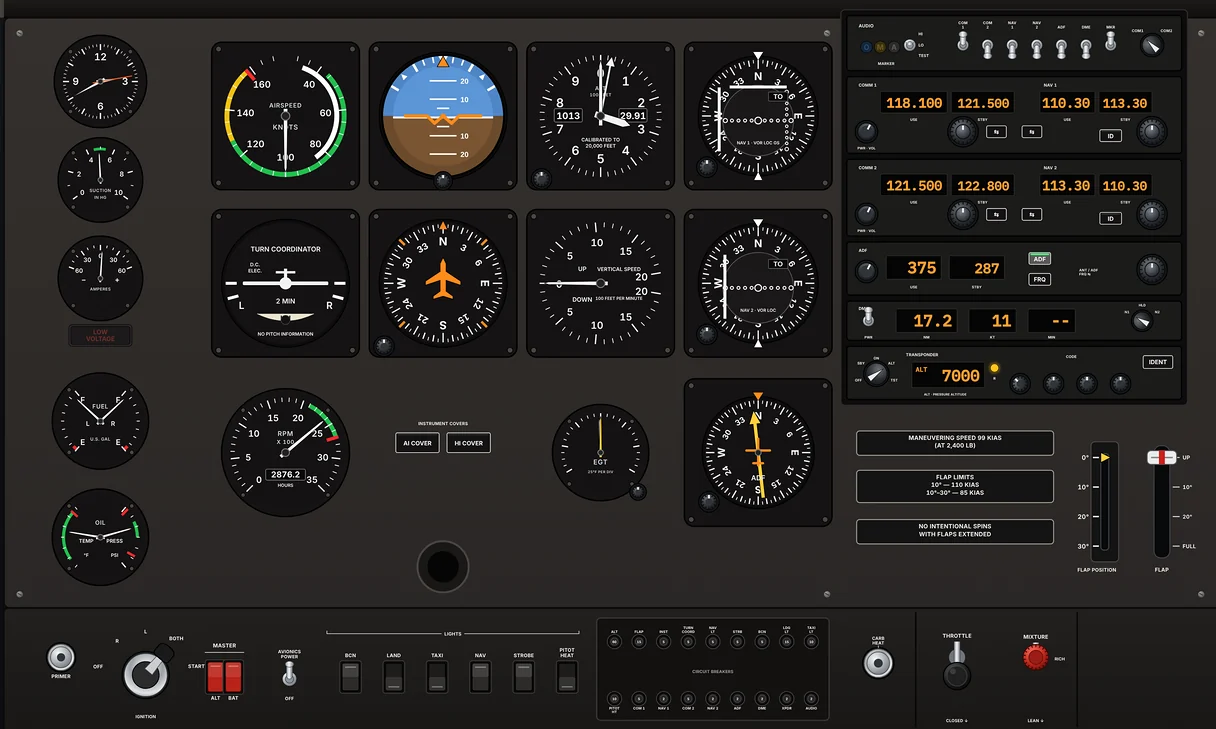
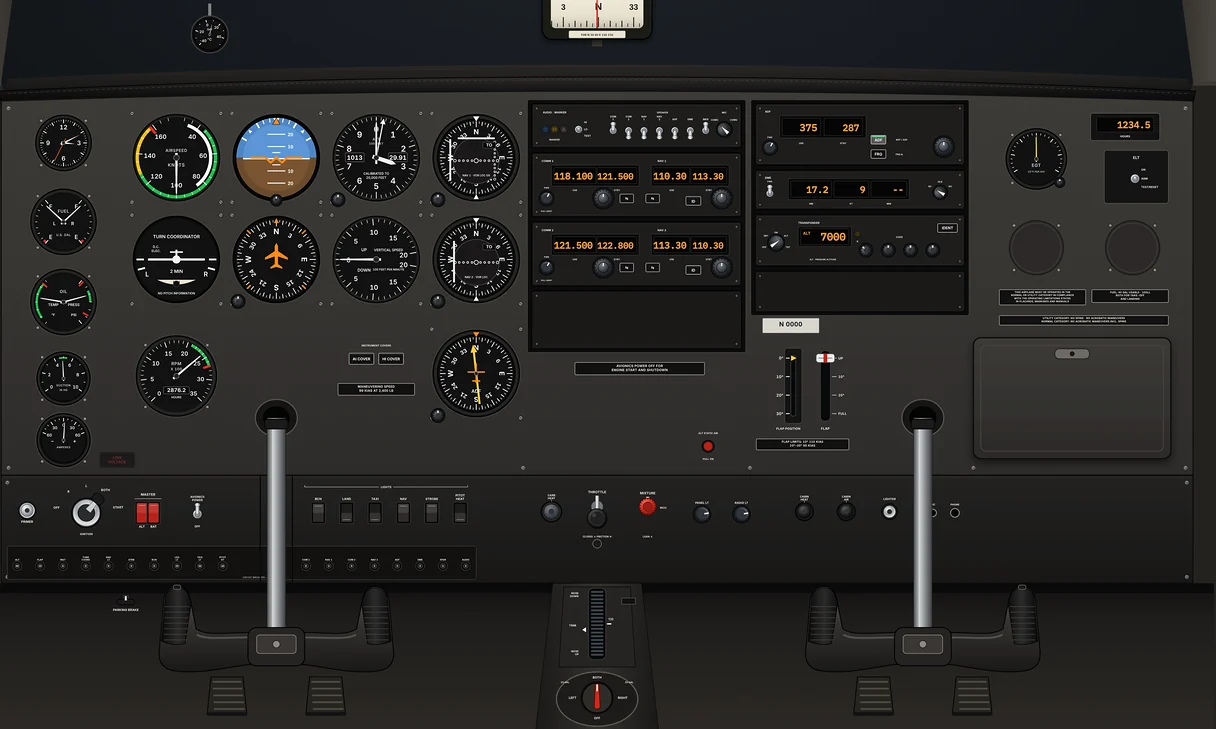
Training overview: new Cessna 172 panel image
Claude-Session: https://claude.ai/code/session_01S9gHm57EQxZjGJ4cCC3jsu

diff --git a/training.html b/training.html
@@ -181,7 +181,7 @@
     <article class="sy" aria-labelledby="s-c172">
       <a class="sy-ph" href="c172.html" tabindex="-1" aria-hidden="true">
         <!-- TODO: recapture this panel when the rebuilt C172 panel (worktree wt-c172b) is on main. -->
-        <img src="img/training/c172-panel-1216.webp" srcset="img/training/c172-panel-608.webp 608w, img/training/c172-panel-1216.webp 1216w, img/training/c172-panel-1824.webp 1824w" sizes="(max-width:720px) calc(100vw - 48px), (max-width:900px) calc((100vw - 76px) / 2), (max-width:1336px) calc((100vw - 136px) / 2), 600px" width="1824" height="1094" loading="lazy" decoding="async"
+        <img src="img/training/c172-panel-1216.webp?v=2" srcset="img/training/c172-panel-608.webp?v=2 608w, img/training/c172-panel-1216.webp?v=2 1216w, img/training/c172-panel-1824.webp?v=2 1824w" sizes="(max-width:720px) calc(100vw - 48px), (max-width:900px) calc((100vw - 76px) / 2), (max-width:1336px) calc((100vw - 136px) / 2), 600px" width="1824" height="1094" loading="lazy" decoding="async"
           alt="The Cessna 172 trainer's instrument panel in cruise: the six basic flight instruments, two VOR indicators and the ADF, the engine gauges, the audio panel, two NAV/COM radios, the ADF, DME and transponder, the flap lever and the switch row." data-alt-no="Instrumentpanelet i Cessna 172-treneren i marsjflyging: de seks grunnleggende flyinstrumentene, to VOR-indikatorer og ADF-en, motorinstrumentene, audiopanelet, to NAV/COM-radioer, ADF, DME og transponder, flapshendelen og bryterraden.">
       </a>
       <div class="sy-cap">
